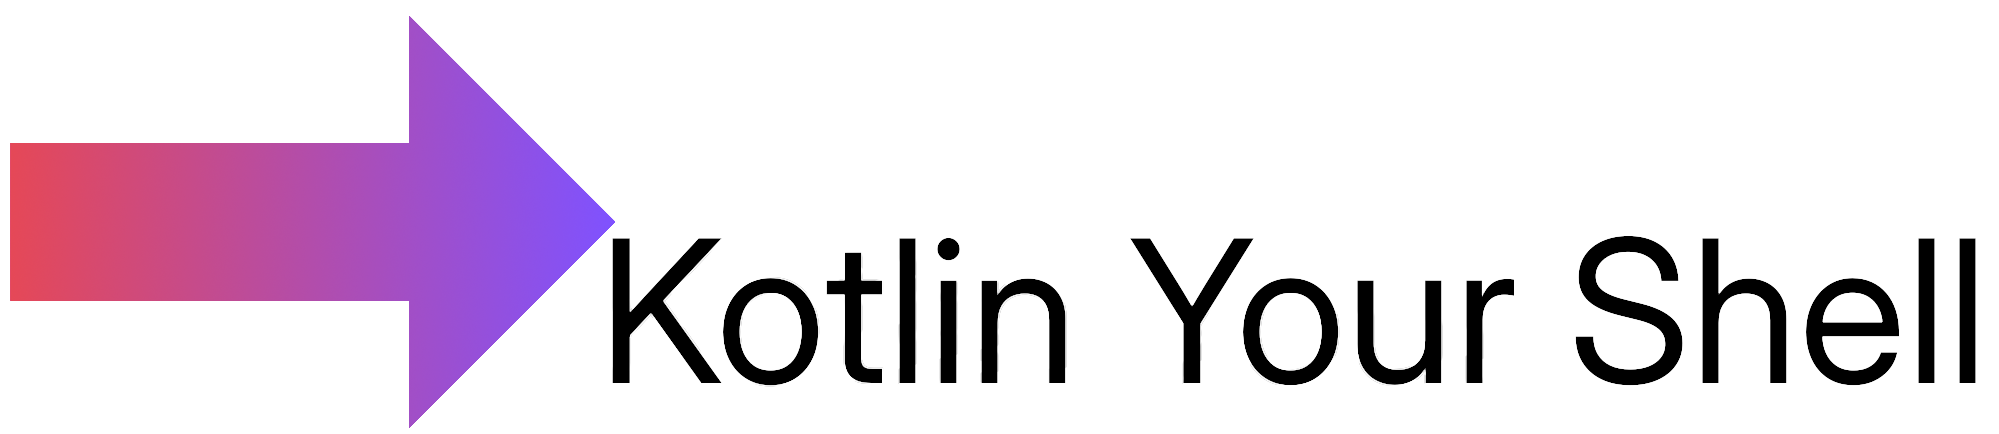
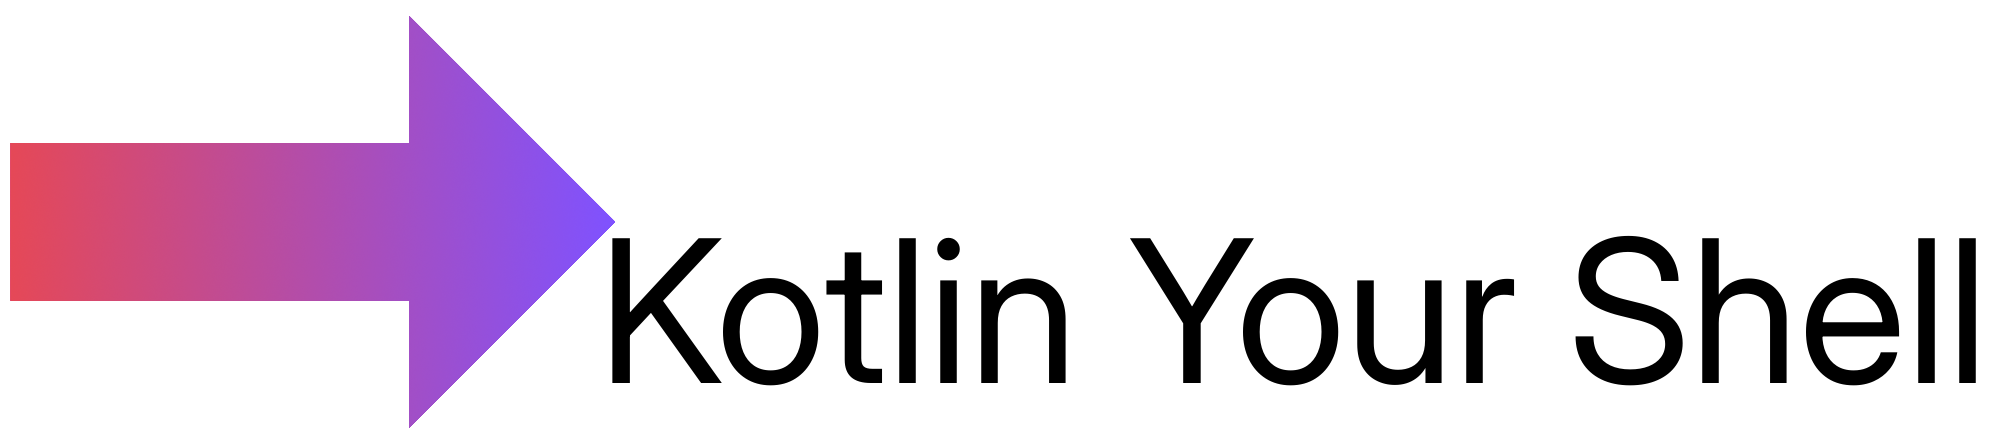
Dark & light mode readme

diff --git a/README.md b/README.md
@@ -1,4 +1,9 @@
-![KYS logo](readmeFiles/KYS2.png)
+<picture>
+  <source media="(prefers-color-scheme: dark)" srcset="readmeFiles/KYS2Dark.png">
+  <source media="(prefers-color-scheme: light)" srcset="readmeFiles/KYS2.png">
+  <img alt="KYS Logo" src="readmeFiles/KYS2Dark.png">
+</picture>
+
 # KYS
 KYS (or somtimes kShell) is a simple shell similar to bash written in Kotlin.
 
